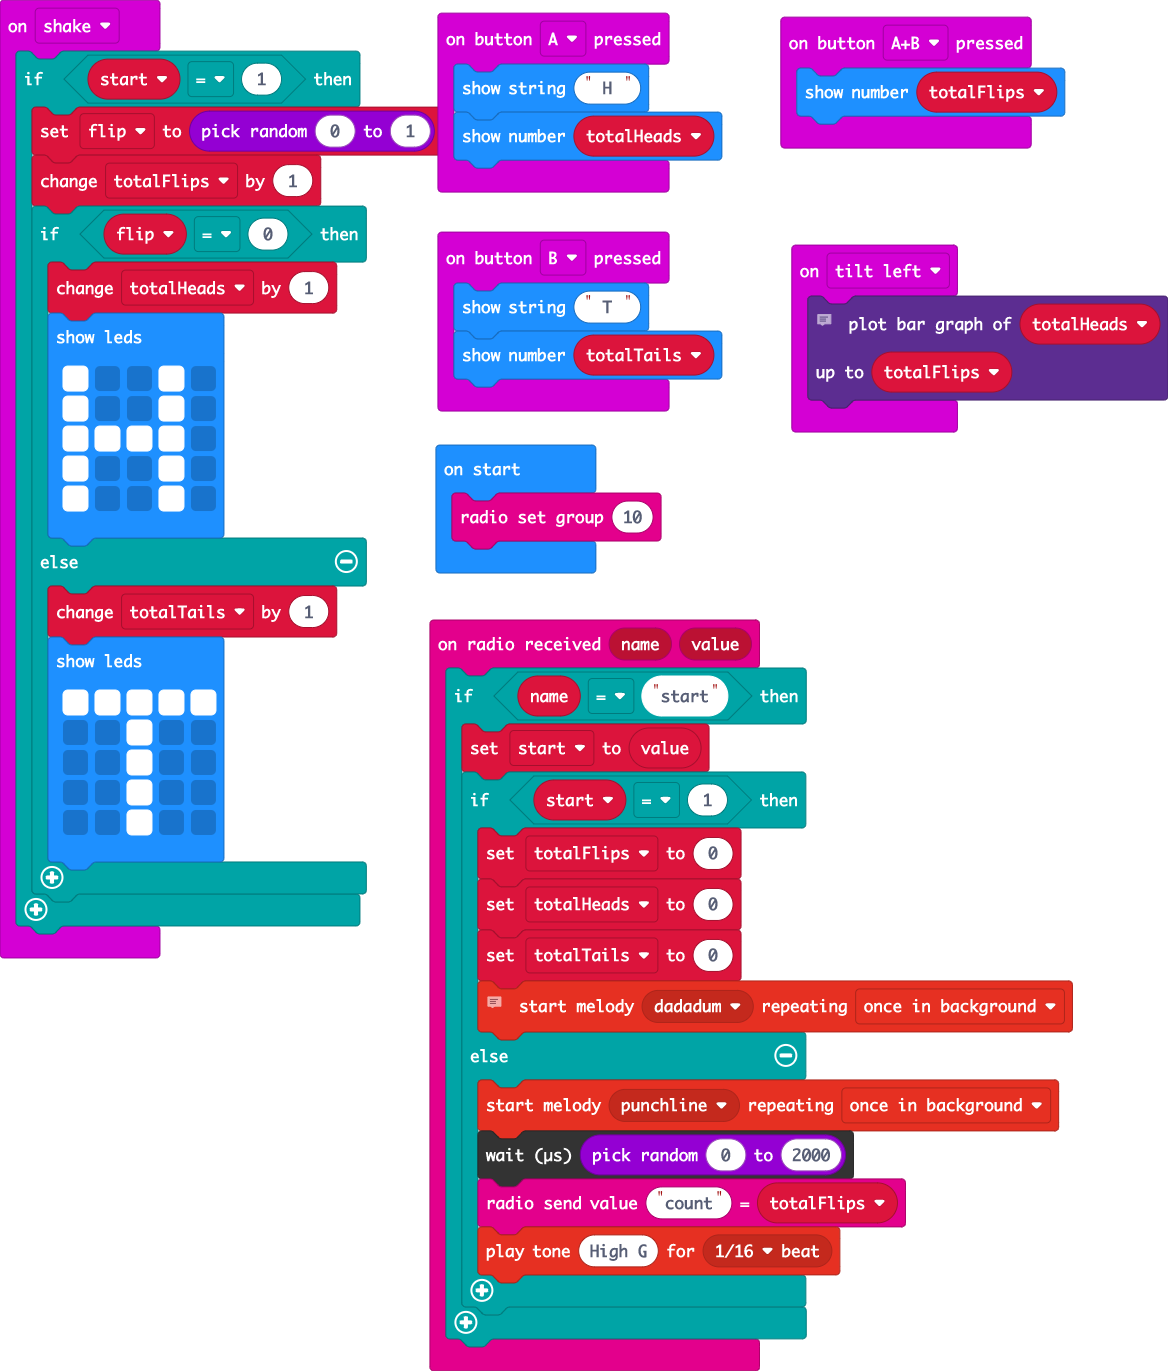
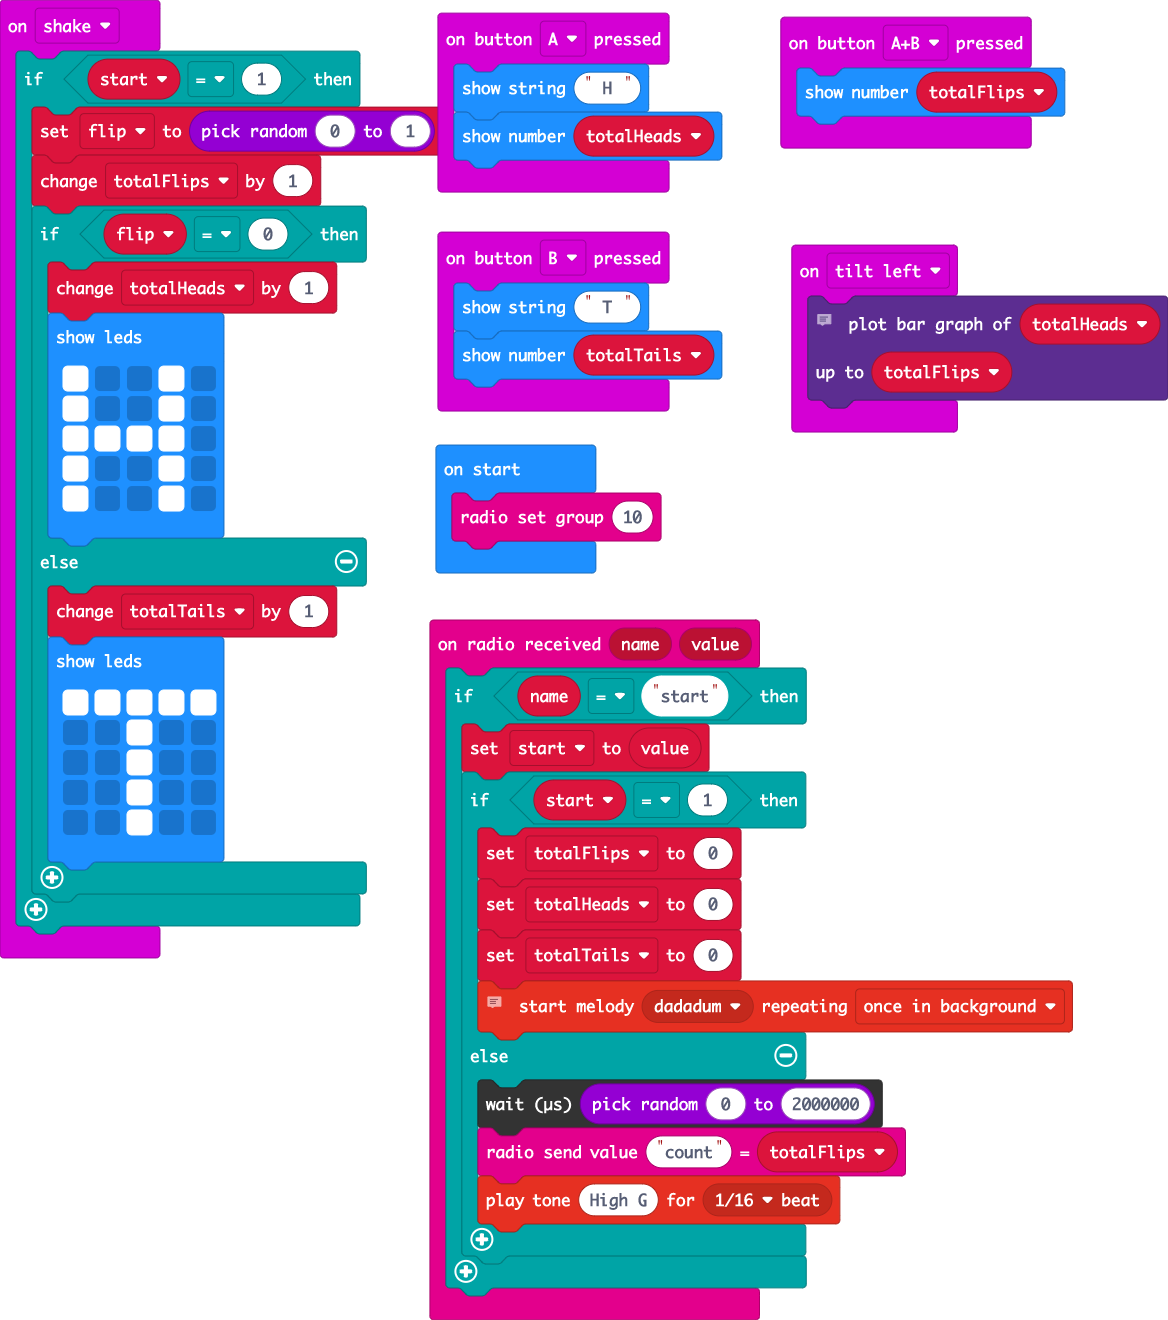
Update main.blocks, main.ts

diff --git a/main.ts b/main.ts
@@ -51,8 +51,7 @@ radio.onReceivedValue(function (name, value) {
             // Play stuff here
             music.startMelody(music.builtInMelody(Melodies.Dadadadum), MelodyOptions.OnceInBackground)
         } else {
-            music.startMelody(music.builtInMelody(Melodies.Punchline), MelodyOptions.OnceInBackground)
-            control.waitMicros(randint(0, 2000))
+            control.waitMicros(randint(0, 2000000))
             radio.sendValue("count", totalFlips)
             music.playTone(784, music.beat(BeatFraction.Sixteenth))
         }
